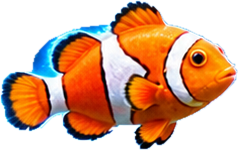
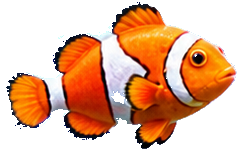
update image

diff --git a/www/game.js b/www/game.js
@@ -4,7 +4,7 @@ let W=1280,H=720,portrait=false;
 const WORLD_W=4800,WORLD_H=2200;
 const camera={x:0,y:0};
 const img={};
-["reef_background.png","player_0.png","player_1.png","player_2.png","player_3.png","player_4.png","player_5.png","player_6.png","player_7.png","minnow.png","yellow-tang.png","blue-tang.png","clownfish.png","grouper.png","lionfish.png","shark.png","manta.png","seahorse.png","manta_0.png","manta_1.png","manta_2.png","manta_3.png","manta_4.png","manta_5.png","kelp_background.png","volcanic_background.png","abyss_background.png"].forEach(n=>{img[n]=new Image();img[n].src="assets/"+n});
+["reef_background.png","player_0.png","player_1.png","player_2.png","player_3.png","player_4.png","player_5.png","player_6.png","player_7.png","minnow.png","yellow-tang.png","blue-tang.png","clownfish.png","grouper.png","lionfish.png","shark.png","manta.png","seahorse.png","manta_0.png","manta_1.png","manta_2.png","manta_3.png","manta_4.png","manta_5.png","shark_0.png","shark_1.png","shark_2.png","shark_3.png","shark_4.png","shark_5.png","shark_6.png","shark_7.png","kelp_background.png","volcanic_background.png","abyss_background.png"].forEach(n=>{img[n]=new Image();img[n].src="assets/"+n});
 const $=id=>document.getElementById(id);
 let running=false,paused=false,over=false,activePointer=null,score=0,best=+(localStorage.yumyBest||0),gameMode="survival",selectedStage=0,stageGoal=1200,stageUnlocked=+(localStorage.yumyAdventureUnlocked||1),stageCompleted=JSON.parse(localStorage.yumyAdventureCompleted||"[]"),stageWon=false,growth=.08,level=1,lives=3,combo=1,comboT=0,biteT=0,hitT=0,spawnT=0,last=0,fish=[],particles=[],bubbles=[],player={x:420,y:1100,vx:0,vy:0,r:28,face:1},target=null,pointer=null,audioCtx=null,biteNoiseBuffer=null,musicOn=(localStorage.yumyMusicOn!=="0"),sfxOn=(localStorage.yumySfxOn!=="0"),musicVolume=Math.max(0,Math.min(1,(+(localStorage.yumyMusicVolume??22))/100)),sfxVolume=Math.max(0,Math.min(1,(+(localStorage.yumySfxVolume??95))/100)),musicNodes=[],masterGain=null,musicGain=null,sfxGain=null,ambientSource=null,scene=0,survivalWave=1,waveScoreStart=0,waveGoal=3200,predatorWarnCd=0;
 const stages=[
@@ -63,9 +63,17 @@ function playCue(kind,amount=1){
   else if(kind==='menu'){tone(480,t,.07,.035,'sine',620);}
 }
 async function playChomp(f){try{if(!sfxOn)return;await audioStart();const size=Math.max(.8,Math.min(1.4,(f?.r||35)/45));playCue('bite',size);setTimeout(()=>playCue('gulp',size),145)}catch(e){}}
-function resizeGame(){const nextPortrait=window.innerHeight>window.innerWidth;const nw=nextPortrait?720:1280,nh=nextPortrait?1280:720;if(nw===W&&nh===H)return;W=nw;H=nh;portrait=nextPortrait;canvas.width=W;canvas.height=H;const menu=$("webMenuBtn");if(portrait){menu.style.top="max(8px,env(safe-area-inset-top))";menu.style.right="max(12px,env(safe-area-inset-right))";menu.style.left="auto"}else{menu.style.top="max(10px,env(safe-area-inset-top))";menu.style.left="max(12px,env(safe-area-inset-left))";menu.style.right="auto"}camera.x=clamp(camera.x,0,Math.max(0,WORLD_W-W));camera.y=clamp(camera.y,0,Math.max(0,WORLD_H-H))}
+function resizeGame(){
+ const root=document.getElementById("game"),rect=root.getBoundingClientRect();
+ const rw=Math.max(1,rect.width||window.innerWidth),rh=Math.max(1,rect.height||window.innerHeight);
+ const nextPortrait=rh>rw,nw=nextPortrait?720:1280,nh=Math.max(1,Math.round(nw*rh/rw));
+ if(nw===W&&nh===H&&nextPortrait===portrait)return;
+ W=nw;H=nh;portrait=nextPortrait;canvas.width=W;canvas.height=H;
+ const menu=$("webMenuBtn");menu.style.top="10px";menu.style.right=portrait?"12px":"auto";menu.style.left=portrait?"auto":"12px";
+ camera.x=clamp(camera.x,0,Math.max(0,WORLD_W-W));camera.y=clamp(camera.y,0,Math.max(0,WORLD_H-H));
+}
 function clamp(v,a,b){return Math.max(a,Math.min(b,v))}
-resizeGame();window.addEventListener("resize",resizeGame);window.addEventListener("orientationchange",()=>setTimeout(resizeGame,120));
+resizeGame();window.addEventListener("resize",resizeGame);window.addEventListener("orientationchange",()=>setTimeout(resizeGame,160));if(window.visualViewport)window.visualViewport.addEventListener("resize",()=>setTimeout(resizeGame,80));
 for(let i=0;i<90;i++)bubbles.push({x:Math.random()*WORLD_W,y:Math.random()*WORLD_H,r:2+Math.random()*7,s:10+Math.random()*22,a:.08+Math.random()*.2});
 // Species rules: preyTier is the minimum player growth tier allowed to eat this species.
 // Fish with predator=true remain dangerous until the same explicit size/tier gate is met.
@@ -191,10 +199,10 @@ for(const b of bubbles){b.y-=b.s*dt;if(b.y<0)b.y=WORLD_H;b.x+=Math.sin((b.y+b.r)
 fish=fish.filter(f=>Math.abs(f.x-(camera.x+W*.5))<W*1.65&&Math.abs(f.y-(camera.y+H*.5))<H*1.65);
 }
 function drawFish(f){
- const mantaFrame=f.name==="manta.png"?Math.floor((f.phase*6.5)%6):0;const im=f.name==="manta.png"?(img[`manta_${mantaFrame}.png`]||img["manta.png"]):img[f.name];if(!(im&&im.complete&&im.naturalWidth))return;
+ const mantaFrame=f.name==="manta.png"?Math.floor((f.phase*6.5)%6):0;const sharkFrame=f.name==="shark.png"?Math.floor((f.phase*10)%8):0;const im=f.name==="manta.png"?(img[`manta_${mantaFrame}.png`]||img["manta.png"]):f.name==="shark.png"?(img[`shark_${sharkFrame}.png`]||img["shark.png"]):img[f.name];if(!(im&&im.complete&&im.naturalWidth))return;
  const scale=f.name==="lionfish.png"||f.name==="manta.png"||f.name==="shark.png"?2.0:f.name==="grouper.png"?2.05:f.name==="minnow.png"?2.55:2.15;
  const w=f.r*scale,h=w*im.height/im.width,sourceLeft=f.sourceLeft,flip=sourceLeft?f.dir>0:f.dir<0;
- ctx.save();ctx.translate(f.x,f.y+Math.sin(f.phase*2+f.school)* (f.name==="manta.png"?5.2:2.4));ctx.scale(flip?-1:1,1);ctx.drawImage(im,-w/2,-h/2,w,h);
+ ctx.save();ctx.translate(f.x,f.y+Math.sin(f.phase*2+f.school)*(f.name==="manta.png"?5.2:f.name==="shark.png"?3.6:2.4));if(f.name==="shark.png")ctx.rotate(Math.sin(f.phase*10)*.012);ctx.scale(flip?-1:1,1);ctx.drawImage(im,-w/2,-h/2,w,h);
  // 0.7.9: do not paint a synthetic jaw over the fish artwork.
  // The previous Canvas overlay was detached from each species' muzzle and produced
  // oversized dark ovals and dangling strokes. Keep the original clean sprite intact.
@@ -258,7 +266,7 @@ function backOneScreen(){
   if(!$("mapView").classList.contains("hidden")) {showHome();return true;}
   return false;
 }
-function renderStages(){const grid=$("stageGrid");grid.innerHTML="";$("mapProgress").textContent=`${stageUnlocked} / ${stages.length} vùng biển đã mở khóa · ${stageCompleted.length} đã hoàn thành`;stages.forEach((st,i)=>{const unlocked=i+1<=stageUnlocked,done=stageCompleted.includes(i),b=document.createElement("button");b.type="button";b.className="stage-card map-node scene-"+st.scene+(unlocked?"":" locked")+(i===selectedStage?" active":"")+(done?" completed":"");b.disabled=!unlocked;b.setAttribute("aria-label",`Màn ${i+1}: ${st.name}, ${unlocked?"đã mở khóa":"đang khóa"}`);const symbols=["🪸","🏝","🐠","🐚","🌿","🌱","🦁","🪨","🌋","♨","🔥","🧱","🌌","🕳","✨","🪼","👑","💎"];b.innerHTML=`<span class="node-top"><span class="node-number">${String(i+1).padStart(2,"0")}</span><span class="node-state">${done?"✓":unlocked?"●":"🔒"}</span></span><span class="node-icon">${symbols[i]}</span><b>${st.name}</b><small>${st.goal.toLocaleString("vi-VN")} điểm</small><em>${done?"ĐÃ HOÀN THÀNH":unlocked?"SẴN SÀNG":"CHƯA MỞ KHÓA"}</em>`;b.onclick=()=>{selectedStage=i;renderStages()};grid.appendChild(b)});const st=stages[selectedStage];$("stageDetails").innerHTML=`<b>${["🪸","🏝","🐠","🐚","🌿","🌱","🦁","🪨","🌋","♨","🔥","🧱","🌌","🕳","✨","🪼","👑","💎"][selectedStage]} ${st.name}</b><span>${st.goal.toLocaleString("vi-VN")} điểm · ${st.desc}</span>`;$("mapStart").disabled=selectedStage+1>stageUnlocked}
+function renderStages(){const grid=$("stageGrid");grid.innerHTML="";$("mapProgress").textContent=`${stageUnlocked} / ${stages.length} màn chơi đã mở khóa · ${stageCompleted.length} đã hoàn thành`;stages.forEach((st,i)=>{const unlocked=i+1<=stageUnlocked,done=stageCompleted.includes(i),b=document.createElement("button");b.type="button";b.className="stage-card map-node scene-"+st.scene+(unlocked?"":" locked")+(i===selectedStage?" active":"")+(done?" completed":"");b.disabled=!unlocked;b.setAttribute("aria-label",`Màn ${i+1}: ${st.name}, ${unlocked?"đã mở khóa":"đang khóa"}`);const symbols=["🪸","🏝","🐠","🐚","🌿","🌱","🦁","🪨","🌋","♨","🔥","🧱","🌌","🕳","✨","🪼","👑","💎"];b.innerHTML=`<span class="node-top"><span class="node-number">${String(i+1).padStart(2,"0")}</span><span class="node-state">${done?"✓":unlocked?"●":"🔒"}</span></span><span class="node-icon">${symbols[i]}</span><b>${st.name}</b><small>${st.goal.toLocaleString("vi-VN")} điểm</small><em>${done?"ĐÃ HOÀN THÀNH":unlocked?"SẴN SÀNG":"CHƯA MỞ KHÓA"}</em>`;b.onclick=()=>{selectedStage=i;renderStages()};grid.appendChild(b)});const st=stages[selectedStage];$("stageDetails").innerHTML=`<b>${["🪸","🏝","🐠","🐚","🌿","🌱","🦁","🪨","🌋","♨","🔥","🧱","🌌","🕳","✨","🪼","👑","💎"][selectedStage]} ${st.name}</b><span>${st.goal.toLocaleString("vi-VN")} điểm · ${st.desc}</span>`;$("mapStart").disabled=selectedStage+1>stageUnlocked}
 $("webMenuBtn").onclick=()=>{if(!running||over)return;playCue("menu");paused=true;activePointer=null;target=null;particles=[];showPauseHome();$("pause").classList.remove("hidden")};$("survivalMode").onclick=()=>{audioStart().then(()=>playCue("menu"));gameMode="survival";selectedStage=0;audioStart();resizeGame();if(document.documentElement.requestFullscreen&&/Android|iPhone|iPad/i.test(navigator.userAgent))document.documentElement.requestFullscreen().catch(()=>{});reset()};
 $("adventureMode").onclick=()=>{audioStart().then(()=>playCue("menu"));selectedStage=Math.max(0,Math.min(selectedStage,stageUnlocked-1));showAdventureMap()};$("mapBack").onclick=showHome;$("mapStart").onclick=()=>{if(selectedStage+1>stageUnlocked)return;gameMode="adventure";audioStart();resizeGame();if(document.documentElement.requestFullscreen&&/Android|iPhone|iPad/i.test(navigator.userAgent))document.documentElement.requestFullscreen().catch(()=>{});reset()};$("backToMenu").onclick=showHome;$("pauseToMenu").onclick=showHome;
 $("again").onclick=()=>{if(gameMode==="survival"&&stageWon){nextSurvivalWave();return}if(gameMode==="adventure"&&stageWon&&selectedStage<stages.length-1){selectedStage++;showAdventureMap();return}reset()};

diff --git a/www/index.html b/www/index.html
@@ -1,5 +1,5 @@
 <!doctype html>
-<html lang="vi"><head><meta charset="utf-8"><meta name="viewport" content="width=device-width,initial-scale=1,maximum-scale=1,user-scalable=no,viewport-fit=cover"><meta name="theme-color" content="#062b43"><meta name="description" content="YUMY Ocean 0.8.3 - Navigation & Back Gesture"><link rel="manifest" href="manifest.webmanifest"><link rel="icon" href="assets/icon.png"><link rel="stylesheet" href="style.css"><title>YUMY Ocean 0.8.3</title></head>
+<html lang="vi"><head><meta charset="utf-8"><meta name="viewport" content="width=device-width,initial-scale=1,maximum-scale=1,user-scalable=no,viewport-fit=cover"><meta name="theme-color" content="#062b43"><meta name="description" content="YUMY Ocean 0.8.6 - Stage Count Label Fix"><link rel="manifest" href="manifest.webmanifest"><link rel="icon" href="assets/icon.png"><link rel="stylesheet" href="style.css"><title>YUMY Ocean 0.8.6</title></head>
 <body><main id="game"><canvas id="c" width="1280" height="720"></canvas><div id="menu" class="overlay">
 <section class="menu-panel">
   <div id="homeView" class="menu-view">
@@ -10,10 +10,10 @@
       <button class="mode-card survival-card" id="survivalMode"><span class="mode-icon">♾</span><b>SINH TỒN</b><small>Sống sót lâu nhất có thể. Không cần chọn bản đồ.</small><em>CHƠI NGAY →</em></button>
       <button class="mode-card adventure-card" id="adventureMode"><span class="mode-icon">🗺</span><b>PHIÊU LƯU</b><small>Khám phá từng vùng biển, hoàn thành mục tiêu để mở khóa màn mới.</small><em>CHỌN VÙNG BIỂN →</em></button>
     </div>
-    <div class="home-footer"><span>🎮 Điều khiển chạm và kéo</span><span>🌊 9 vùng biển phiêu lưu</span></div>
+    <div class="home-footer"><span>🎮 Điều khiển chạm và kéo</span><span id="stageCountLabel">🌊 18 màn chơi · 9 vùng biển</span></div>
   </div>
   <div id="mapView" class="menu-view hidden">
-    <div class="subnav"><button id="mapBack" class="back-btn" aria-label="Quay lại">‹</button><div><h2>BẢN ĐỒ ĐẠI DƯƠNG</h2><small id="mapProgress">1 / 9 vùng biển đã mở khóa</small></div><span class="map-compass">✦</span></div>
+    <div class="subnav"><button id="mapBack" class="back-btn" aria-label="Quay lại">‹</button><div><h2>BẢN ĐỒ ĐẠI DƯƠNG</h2><small id="mapProgress">1 / 18 màn chơi đã mở khóa</small></div><span class="map-compass">✦</span></div>
     <div class="map-legend"><span>🟢 Hoàn thành</span><span>🟡 Có thể chơi</span><span>🔒 Chưa mở</span></div>
     <div id="stageGrid" class="stage-grid ocean-map"></div>
     <div id="stageDetails" class="stage-details"><b>🪸 Rạn san hô</b><span>900 điểm · Khởi đầu êm đềm</span></div>

diff --git a/www/sw.js b/www/sw.js
@@ -1,8 +1,8 @@
-const C='yumy-083';
+const C='yumy-087';
 const CORE=['./','index.html','style.css','game.js','manifest.webmanifest',
 'assets/icon-192.png','assets/icon-512.png','assets/reef_background.png','assets/kelp_background.png','assets/volcanic_background.png','assets/abyss_background.png',
 'assets/player_0.png','assets/player_1.png','assets/player_2.png','assets/player_3.png','assets/player_4.png','assets/player_5.png','assets/player_6.png','assets/player_7.png',
-'assets/minnow.png','assets/yellow-tang.png','assets/blue-tang.png','assets/clownfish.png','assets/grouper.png','assets/lionfish.png','assets/shark.png','assets/manta.png','assets/seahorse.png','assets/manta_0.png','assets/manta_1.png','assets/manta_2.png','assets/manta_3.png','assets/manta_4.png','assets/manta_5.png','assets/grouper_closed.png','assets/lionfish_closed.png','assets/shark_closed.png','assets/manta_closed.png'];
+'assets/minnow.png','assets/yellow-tang.png','assets/blue-tang.png','assets/clownfish.png','assets/grouper.png','assets/lionfish.png','assets/shark.png','assets/manta.png','assets/shark_0.png','assets/shark_1.png','assets/shark_2.png','assets/shark_3.png','assets/shark_4.png','assets/shark_5.png','assets/shark_6.png','assets/shark_7.png','assets/seahorse.png','assets/manta_0.png','assets/manta_1.png','assets/manta_2.png','assets/manta_3.png','assets/manta_4.png','assets/manta_5.png','assets/grouper_closed.png','assets/lionfish_closed.png','assets/shark_closed.png','assets/manta_closed.png'];
 self.addEventListener('install',e=>e.waitUntil(caches.open(C).then(c=>c.addAll(CORE))));
 self.addEventListener('activate',e=>e.waitUntil(caches.keys().then(keys=>Promise.all(keys.filter(k=>k.startsWith('yumy-')&&k!==C).map(k=>caches.delete(k))))));
 self.addEventListener('fetch',e=>e.respondWith(caches.match(e.request).then(r=>r||fetch(e.request))));

diff --git a/www/style.css b/www/style.css
@@ -105,3 +105,17 @@ canvas{width:100%;height:100%;object-fit:fill;touch-action:none}
 #pause .pause-view .audio-settings{width:100%;display:flex;flex-direction:column;gap:16px;margin:4px 0 0;padding:18px 16px;border:1px solid #7bdce577;border-radius:18px;background:#042f49aa;text-align:left}
 #pause .pause-view .audio-settings.hidden{display:none}
 @media(max-width:380px){#pause section.menu-actions{padding:22px 17px;gap:10px}#pause .pause-view{gap:10px}#pause .pause-view .audio-settings{padding:15px 12px;gap:14px}}
+
+
+/* 0.8.5 responsive viewport: reserve Android/iOS system bars and match the
+   canvas logical aspect ratio to the actual usable viewport (not a fixed 720x1280). */
+@media (max-width: 900px) and (orientation: portrait) {
+  #game { top: max(env(safe-area-inset-top), 24px); bottom: max(env(safe-area-inset-bottom), 18px); height: auto; width: 100vw; }
+  #game > canvas { width: 100%; height: 100%; object-fit: fill; }
+  #webMenuBtn { position: absolute; top: 10px; right: 12px; left: auto; z-index: 12; }
+}
+@media (max-width: 900px) and (orientation: landscape) {
+  #game { top: env(safe-area-inset-top); bottom: env(safe-area-inset-bottom); height: auto; }
+  #game > canvas { width: 100%; height: 100%; }
+  #webMenuBtn { position: absolute; top: 10px; left: 12px; right: auto; }
+}

diff --git a/README.md b/README.md
@@ -1,26 +1,16 @@
-# YUMY Ocean 0.8.3 — Portrait HUD Redesign
+# YUMY Ocean 0.8.7 — Clownfish Alpha Cleanup
 
-## What's included
-- Cross-platform HTML5 Canvas game for Web/PWA and Android through Capacitor.
-- Portrait HUD rebuilt into distinct Score, Combo, Growth, Lives and Prey panels.
-- Score label and score value are separated vertically to prevent overlap on narrow screens.
-- Single in-game MENU button remains at the top-right safe area.
-- Audio settings remain inside MENU, with independent music and SFX toggles/volume.
-- Existing Survival/Adventure modes, fish rules, predator AI and game assets are retained.
+## Changes
+- Replaced `www/assets/clownfish.png` with a cleaned transparent PNG.
+- Removed the cyan/blue background glow fringe while preserving the clownfish body, stripes, fins, and antialiased silhouette.
+- No gameplay, fish sizing, collision, or AI logic changed.
+- Updated package and PWA cache version to 0.8.7 (`yumy-087`).
 
-## Web / PWA
-Serve the `www/` directory from a static HTTPS host. The service worker cache is `yumy-083`.
+## Web/PWA
+Serve the `www/` directory over HTTPS (or localhost). If an older build remains visible, close the old tab and reload after the service worker activates.
 
 ## Android
-Run `npm install`, `npx cap add android` (first setup only), `npx cap sync android`, then open with Android Studio. The GitHub Actions workflow can build a debug APK.
+Run `npm install`, `npx cap sync android`, then build from Android Studio or `npm run android:debug` if the Android project is present.
 
-The ZIP contains source and assets; it is not a prebuilt APK.
-
-## Android launcher resources
-The build workflow copies only `mipmap-*` launcher resources. Do not copy an additional `values/ic_launcher_background` resource into the Android project; Capacitor already provides it and duplicate resource definitions break `mergeDebugResources`.
-
-
-## 0.8.3 Navigation update
-- Pause menu and audio settings are now separate screens.
-- Audio settings has a dedicated Back button.
-- Swipe from the left screen edge to the right returns to the previous screen (audio settings → pause menu → gameplay; map → home).
+## Validation
+The updated PNG is RGBA with transparent background. JavaScript syntax and ZIP integrity should be checked before release. No APK or physical-device test is included.
